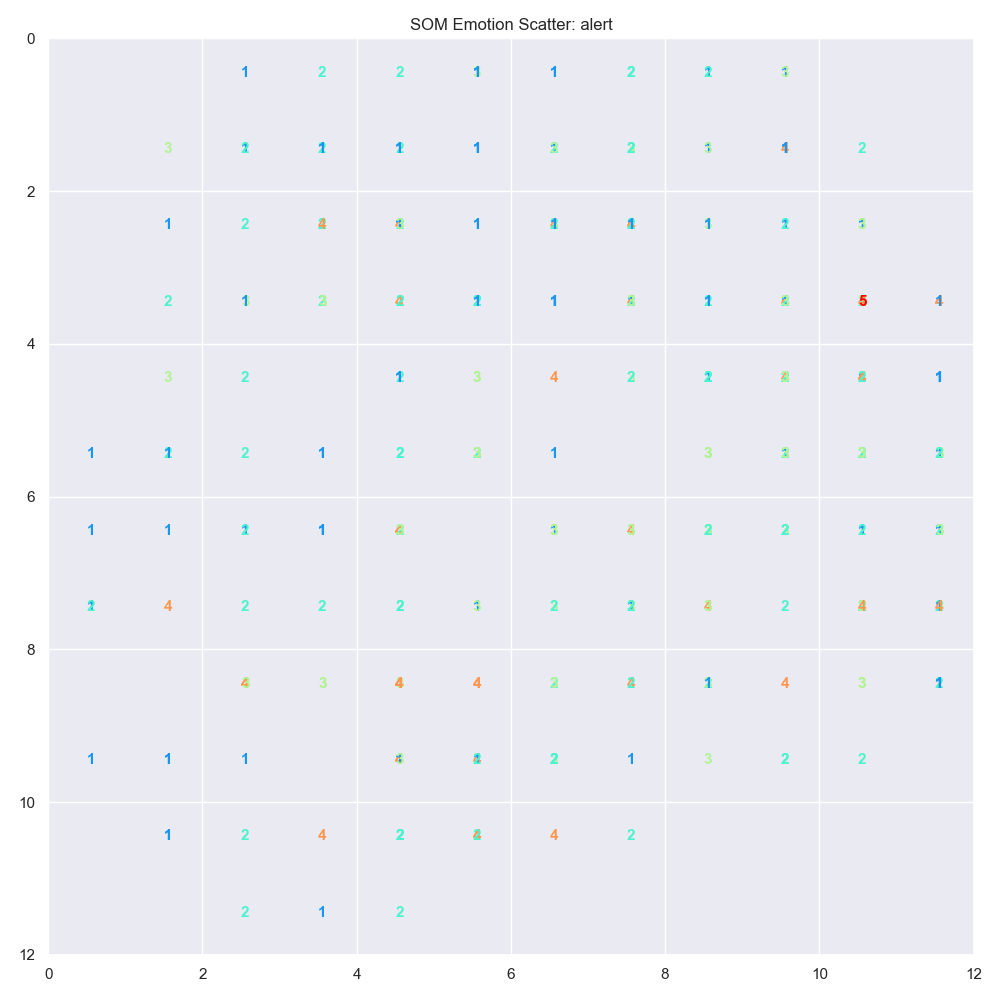
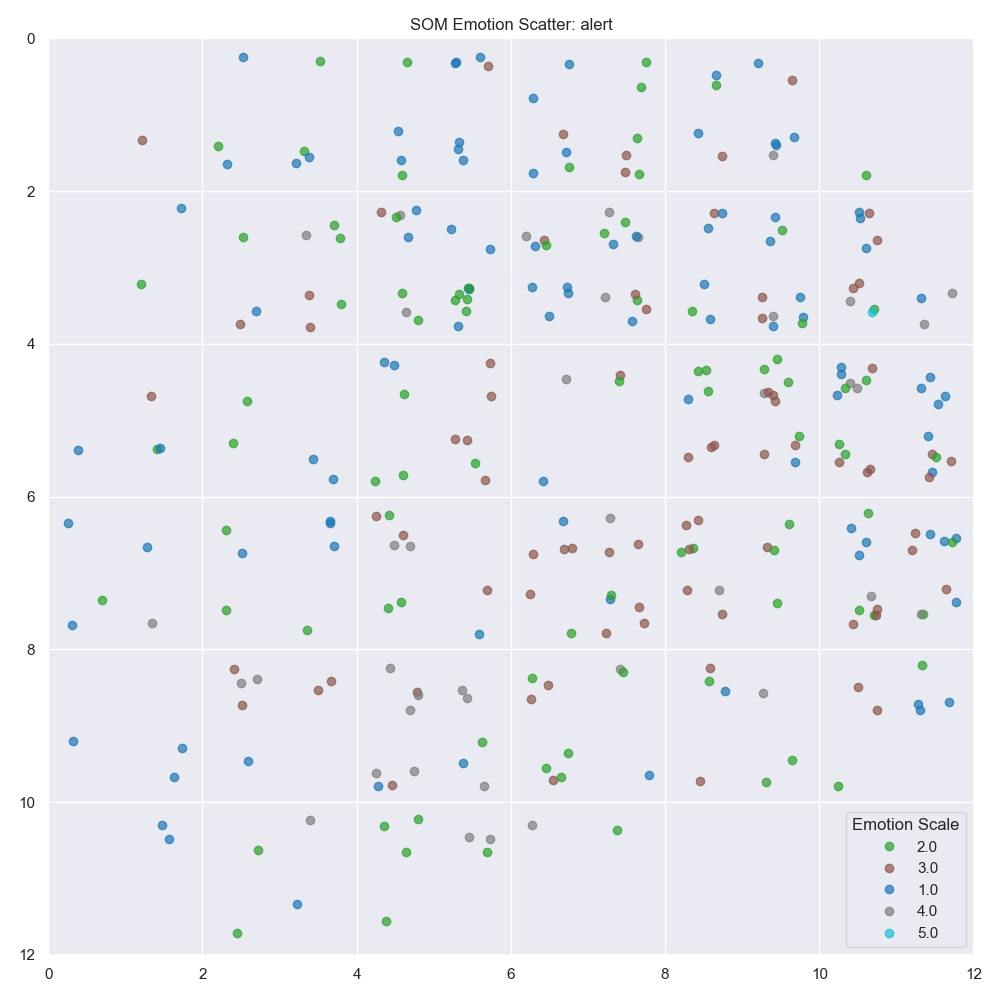
updated scatter plot for phases, created a som pipeline and connected it to main

diff --git a/src/case2/som.py b/src/case2/som.py
@@ -5,8 +5,8 @@ from minisom import MiniSom
 from pathlib import Path
 from data_loader import load_data
 from collections import defaultdict
-from sklearn.cluster import KMeans
 import seaborn as sns
+from matplotlib.cm import get_cmap
 
 sns.set_theme(style="darkgrid")
 FIG_DIR = Path(__file__).parent.parent.parent / "docs" / "figures" / "som"
@@ -42,7 +42,7 @@ def preprocess_som_data(X: pd.DataFrame, y: pd.DataFrame) -> tuple[pd.DataFrame,
     y_preprocessed = y_mapped.fillna(-1)
     return X_preprocessed, y_preprocessed
 
-def get_phase_data(X_df: pd.DataFrame, y_df: pd.DataFrame, full_df: pd.DataFrame, phase_name: str) -> tuple[pd.DataFrame, pd.DataFrame]:
+def get_phase_specific_data(X_df: pd.DataFrame, y_df: pd.DataFrame, full_df: pd.DataFrame, phase_name: str) -> tuple[pd.DataFrame, pd.DataFrame]:
     """
     Filters feature and label data for a given phase.
 
@@ -68,13 +68,34 @@ def get_phase_data(X_df: pd.DataFrame, y_df: pd.DataFrame, full_df: pd.DataFrame
     return X_phase, y_phase
 
 def train_som(X: np.ndarray, x_dim=10, y_dim=10, sigma=1.0, learning_rate=0.5, num_iter=5000) -> MiniSom:
+    """
+    Train a Self-Organizing Map (SOM) on the input data.
+
+    Parameters
+    ----------
+    X : np.ndarray
+        Input data for SOM.
+    x_dim : int
+        Number of neurons in the x dimension.
+    y_dim : int
+        Number of neurons in the y dimension.
+    sigma : float
+        Width of the neighborhood function.
+    learning_rate : float
+        Learning rate for the SOM.
+    num_iter : int
+        Number of iterations for training.
+    -----------
+    Returns
+    som : MiniSom
+        Trained SOM object.
+    """
     som = MiniSom(x=x_dim, y=y_dim, input_len=X.shape[1], sigma=sigma,
                   learning_rate=learning_rate, neighborhood_function='gaussian', random_seed=42)
     som.pca_weights_init(X)
     print("Training SOM...")
     som.train(X, num_iter, verbose=True)
     return som
-
 
 def plot_u_matrix(som: MiniSom):
     """
@@ -91,7 +112,7 @@ def plot_u_matrix(som: MiniSom):
     plt.savefig(FIG_DIR / "som_u_matrix.png")
     plt.close()
 
-def plot_label_maps(som: MiniSom, X: np.ndarray, y: pd.DataFrame, emotion: str):
+def plot_label_heatmaps(som: MiniSom, X: np.ndarray, y: pd.DataFrame, emotion: str):
     """
     Plot a heatmap of the average label values for each neuron in the SOM.
     Each neuron is represented by a grid cell, and the color intensity indicates the average value of the label for that neuron.
@@ -127,43 +148,30 @@ def plot_emotion_scatter(som: MiniSom, X: np.ndarray, y: pd.Series, emotion: str
     The color intensity indicates the value of the emotion for that neuron.
     """
     plt.figure(figsize=(10, 10))
-    for x, val in zip(X, y):
-        w = som.winner(x)
-        plt.text(w[0] + 0.5, w[1] + 0.5, str(int(val)),
-                 color=plt.cm.rainbow(val / 5.0),  # normalize if range is 0–5
-                 fontdict={'weight': 'bold', 'size': 11})
-    plt.title(f"SOM Emotion Scatter: {emotion}")
-    plt.axis([0, som.get_weights().shape[0], 0, som.get_weights().shape[1]])
-    plt.gca().invert_yaxis()
-    plt.tight_layout()
-    plt.savefig(FIG_DIR / "label_scatter" / f"som_label_scatter_{emotion}.png")
-    plt.close()
 
-#TODO: Not used for now because the clusters don't seem to be meaningful
-def plot_emotion_clusters_discrete(som: MiniSom, X: np.ndarray, y: pd.Series, n_clusters=6, emotion_name=""):
-    """
-    Cluster SOM neurons and overlay discrete emotion label values as text on the grid.
-    Neuron cluster membership is calculated via KMeans.
-    """
-    weights = som.get_weights().reshape(-1, X.shape[1])
-    kmeans = KMeans(n_clusters=n_clusters, random_state=0).fit(weights)
-    neuron_labels = kmeans.labels_.reshape(som.get_weights().shape[:2])
+    unique_vals = sorted(y.unique())
+    val_min, val_max = min(unique_vals), max(unique_vals)
+    cmap = get_cmap("tab10" if val_max <= 10 else "tab20")
 
-    plt.figure(figsize=(10, 10))
-    for x_vec, label in zip(X, y):
+    # Track added labels to prevent duplicate legends
+    added_labels = set()
+
+    for x_vec, val in zip(X, y):
         bmu = som.winner(x_vec)
         jitter_x = bmu[0] + 0.5 + 0.6 * np.random.rand() - 0.3
         jitter_y = bmu[1] + 0.5 + 0.6 * np.random.rand() - 0.3
-        label_int = int(label)
-        plt.text(jitter_x, jitter_y, str(label_int),
-                 color=plt.cm.Set1((label_int - 1) / 4),  # normalize 1–5 to 0–1 for Set1
-                 fontdict={'weight': 'bold', 'size': 11})
+        color = cmap((val - val_min) / (val_max - val_min))
+        label = str(val) if val not in added_labels else None
+        plt.plot(jitter_x, jitter_y, 'o', color=color, alpha=0.7, label=label)
+        added_labels.add(val)
 
-    plt.title(f"SOM Neuron Clusters with Discrete Emotion: {emotion_name}")
-    plt.axis([0, neuron_labels.shape[0], 0, neuron_labels.shape[1]])
+    plt.title(f"SOM Emotion Scatter: {emotion}")
+    plt.axis([0, som.get_weights().shape[0], 0, som.get_weights().shape[1]])
     plt.gca().invert_yaxis()
+    plt.legend(title="Emotion Scale")
     plt.tight_layout()
-    plt.show()
+    plt.savefig(FIG_DIR / "label_scatter" / f"som_label_scatter_{emotion}.png")
+    plt.close()
 
 def plot_bmu_scatter_by_phase(som: MiniSom, X_df: pd.DataFrame):
     """
@@ -171,24 +179,32 @@ def plot_bmu_scatter_by_phase(som: MiniSom, X_df: pd.DataFrame):
     Each phase is represented by a different color.
     The scatterplot shows the distribution of BMUs for each phase on the SOM grid.
     """
-    phase_colors = {'phase1': 'green', 'phase2': 'red', 'phase3': 'blue'}
-    plt.figure(figsize=(10, 10))
+    palette = sns.color_palette("colorblind", 3)  # 3 distinct, colorblind-friendly colors
+    phase_labels = ['phase1', 'phase2', 'phase3']
+    phase_colors = dict(zip(phase_labels, palette))
 
-    for phase, color in phase_colors.items():
-        X_phase_df, _ = get_phase_data(X_df, y_df, df, phase)
-        X_phase_scaled, _ = preprocess_som_data(X_phase_df, y_df.loc[X_phase_df.index])  # ← added
+    plt.figure(figsize=(10, 10))
+    plotted_labels = set()
+
+    for phase in phase_labels:
+        color = phase_colors[phase]
+        X_phase_df, _ = get_phase_specific_data(X_df, y_df, df, phase)
+        X_phase_scaled, _ = preprocess_som_data(X_phase_df, y_df.loc[X_phase_df.index])
         for x in X_phase_scaled.to_numpy():
             bmu = som.winner(x)
             jitter_x = bmu[0] + 0.5 + 0.6 * np.random.rand() - 0.3
             jitter_y = bmu[1] + 0.5 + 0.6 * np.random.rand() - 0.3
-            plt.plot(jitter_x, jitter_y, 'o', color=color, alpha=0.7, label=phase if f'{phase}_plotted' not in locals() else "")
-            locals()[f'{phase}_plotted'] = True  # prevents duplicate legends
+            label = phase if phase not in plotted_labels else None
+            plt.plot(jitter_x, jitter_y, 'o', color=color, alpha=0.7, label=label)
+        plotted_labels.add(phase)
+
 
     plt.title("BMU Locations Colored by Phase")
     plt.axis([0, som.get_weights().shape[0], 0, som.get_weights().shape[1]])
     plt.gca().invert_yaxis()
+    plt.legend(title="Phase")
     handles, labels = plt.gca().get_legend_handles_labels()
-    by_label = dict(zip(labels, handles))  # remove duplicate legends
+    by_label = dict(zip(labels, handles))
     plt.legend(by_label.values(), by_label.keys())
     plt.tight_layout()
     plt.savefig(FIG_DIR / "som_bmu_scatter_by_phase.png")
@@ -255,34 +271,45 @@ def plot_phase_trajectories(som: MiniSom, X_scaled: pd.DataFrame, df: pd.DataFra
     plt.savefig(FIG_DIR / "som_phase_trajectories.png")
     plt.close()
 
-if __name__ == '__main__':
+def som_pipeline():
+    """
+    Main pipeline for SOM analysis.
+    1. Load and preprocess data.
+    2. Train SOM.
+    3. Generate visualizations:
+         - U-Matrix
+         - Label heatmaps and scatter maps for each emotion label
+         - Phase scatter: Where do phases land on the SOM?
+         - Phase-wise hit maps
+         - Plot trajectories for individuals
+     """
+    # Fetch and preprocess data
     df, X_df, y_df = load_data()
-
-    # Preprocess using your custom method
-    X_scaled, y_processed = preprocess_som_data(X_df, y_df) 
+    X_scaled, y_processed = preprocess_som_data(X_df, y_df)
 
     # Train SOM
     som = train_som(X_scaled.to_numpy(), x_dim=12, y_dim=12, num_iter=5000)
 
     # Visualizations
+    # U-Matrix
     plot_u_matrix(som)
 
-    # Visualize label maps for emotions
+    # Visualize label heatmaps and scatter maps for each emotion label
     emotions = [
         'Frustrated', 'alert', 'ashamed', 'inspired', 'nervous',
         'attentive', 'afraid', 'active', 'determined'
     ]
     for emotion in emotions:
         if emotion in y_processed.columns:
-            plot_label_maps(som, X_scaled.to_numpy(), y_processed, emotion)
-            plot_emotion_scatter(som, X_scaled.to_numpy(), y_processed[emotion], emotion) 
+            plot_label_heatmaps(som, X_scaled.to_numpy(), y_processed, emotion)
+            plot_emotion_scatter(som, X_scaled.to_numpy(), y_processed[emotion], emotion)
 
     # Phase scatter: Where do phases land on the SOM?
     plot_bmu_scatter_by_phase(som, X_df)
 
     # Phase-wise hit maps
     for phase in ['phase1', 'phase2', 'phase3']:
-        X_phase_df, _ = get_phase_data(X_df, y_df, df, phase)
+        X_phase_df, _ = get_phase_specific_data(X_df, y_df, df, phase)
         X_phase_scaled, _ = preprocess_som_data(X_phase_df, y_df.loc[X_phase_df.index])
         plot_phase_hitmap(som, X_phase_scaled.to_numpy(), phase)
 

diff --git a/src/case2/main.py b/src/case2/main.py
@@ -1,6 +1,6 @@
 #!/usr/bin/env python3
-from data_loader import load_data
+from som import som_pipeline
 
 if __name__ == "__main__":
-    # Loading the data
-    hr_df, X, y = load_data()
+    # Run the SOM analysis on the dataset
+    som_pipeline()
